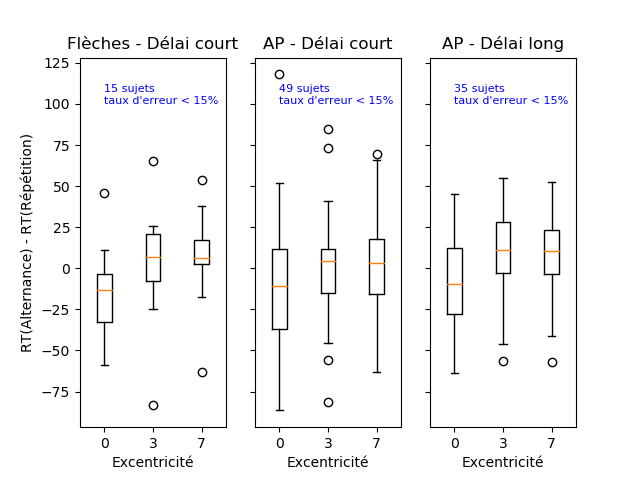
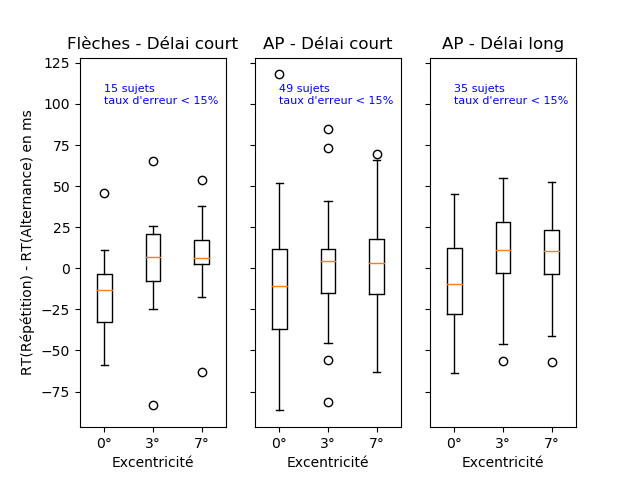
rectification légendes et quelques ajouts sur les graphes

diff --git a/Data analysis/PlotMed.py b/Data analysis/PlotMed.py
@@ -16,17 +16,21 @@ data = fd.import_good_enough_np(maxi=20)
 ecc = np.array([0, 3, 7])
 stack10 = md.MedianeEccTousSujets(1, 0, data)
 stack00 = md.MedianeEccTousSujets(0, 0, data)
+stack0010 = np.concatenate((stack00, stack10), axis=0)
 stack11 = md.MedianeEccTousSujets(1, 1, data)
 fig, (mot,tim) = plt.subplots(1,2, sharey= True)
 # Affichage courbes moyennes - motricité
 
 mot.errorbar(ecc, md.meanSD(stack10)[0], yerr = md.meanSD(stack10)[1], label="Motricité 1 - Delay 0")
 mot.errorbar(ecc + 0.06, md.meanSD(stack00)[0], yerr = md.meanSD(stack00)[1], label="Motricité 0 - Delay 0")
+mot.errorbar(ecc, md.meanSD(stack0010)[0], yerr = md.meanSD(stack0010)[1], label = "Moyenne", linestyle = '--')
 # Légendes et titres
 mot.set_title("Expérience de type Motricité")
 mot.set_xticks((0,3,7))
 mot.grid(True)
 mot.text(4,-20, "1-0 : " + str(len(stack10)) + " sujets \n0-0 : "+str(len(stack00)) + " sujets", fontsize = 8)
+mot.set_ylabel("RT(Répétition) - RT(Alternance) en ms")
+mot.set_xlabel("Excentricité en °")
 mot.legend()
 
 # Affichage courbes moyennes - Delay
@@ -35,6 +39,8 @@ tim.errorbar(ecc + 0.06, md.meanSD(stack11)[0], yerr = md.meanSD(stack11)[1], la
 # Légendes et titres
 tim.set_title("Expérience de type Delay")
 tim.set_xticks((0,3,7))
+tim.set_ylabel("RT(Répétition) - RT(Alternance) en ms")
+tim.set_xlabel("Excentricité en °")
 tim.text(4,-20, "1-0 : " + str(len(stack10)) + " sujets \n1-1 : "+str(len(stack11)) + " sujets", fontsize = 8)
 tim.grid(True)
 tim.legend()

diff --git a/Data analysis/BoxPlots.py b/Data analysis/BoxPlots.py
@@ -22,10 +22,10 @@ stack11 = md.MedianeEccTousSujets(1, 1, data_fichier)
 dic = {ax00: [stack00, "Flèches - Délai court"], ax10: [stack10,"AP - Délai court"], ax11: [stack11, "AP - Délai long"]}
 for ax in dic:
     stack = dic[ax][0]
-    ax.boxplot([stack[:, 0], stack[:, 1], stack[:, 2]], labels = [0,3,7])
+    ax.boxplot([stack[:, 0], stack[:, 1], stack[:, 2]], labels = ["0°","3°","7°"])
     ax.set_title(dic[ax][1])
     if ax == ax00 :
-        ax.set_ylabel("RT(Alternance) - RT(Répétition)")
+        ax.set_ylabel("RT(Répétition) - RT(Alternance) en ms")
     ax.set_xlabel("Excentricité")
     legend = str(len(stack)) + " sujets \ntaux d'erreur < " + str(taux) + "%"
     ax.text(1, 100, legend, fontsize=8, color = 'blue')

diff --git a/Data analysis/SubjectMedians.py b/Data analysis/SubjectMedians.py
@@ -24,7 +24,7 @@ for ax in dic:
         ax.plot(ecc, subject)
     ax.set_title(dic[ax][1])
     if ax == ax00 :
-        ax.set_ylabel("RT(Alternance) - RT(Répétition)")
+        ax.set_ylabel("RT(Répétition) - RT(Alternance) en ms")
     ax.set_xlabel("Excentricité")
     ax.set_xticks((0,3,7))
     legend = str(len(stack)) + " sujets \ntaux d'erreur < " + str(taux) + "%"
